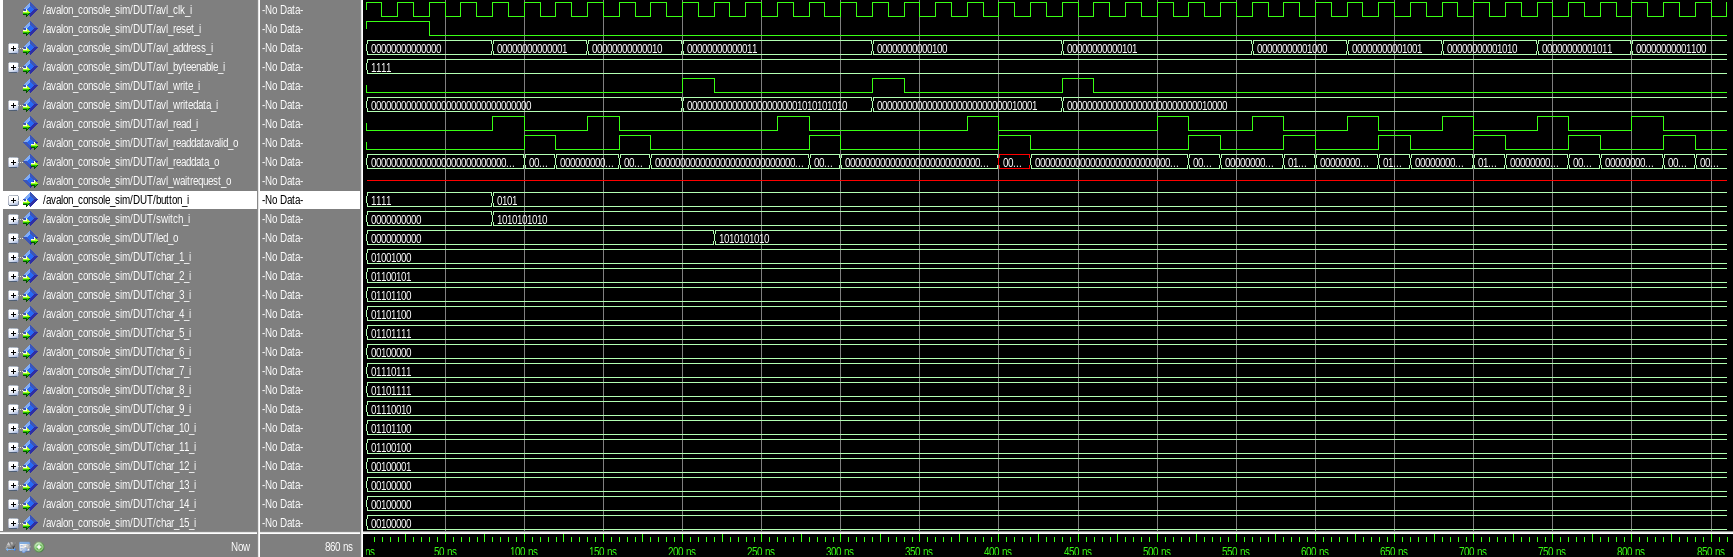
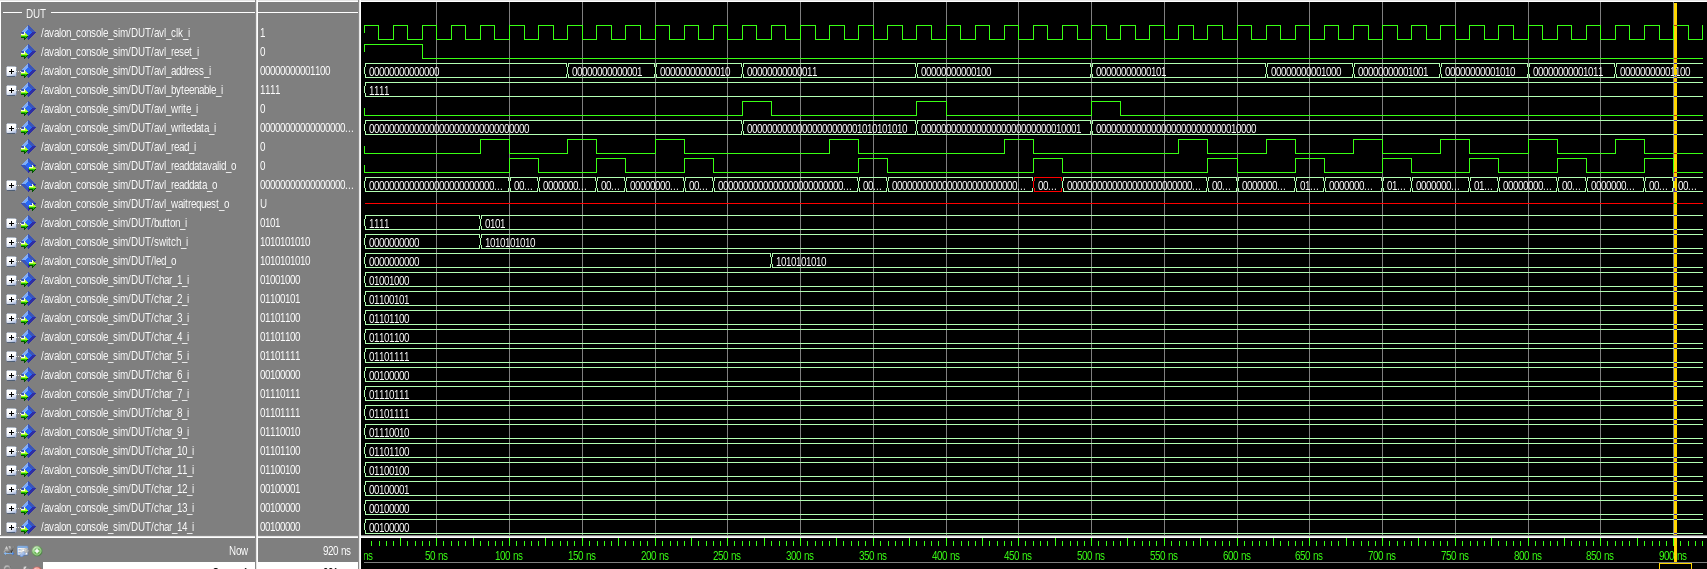
Redone test sim and done doc for it

diff --git a/rapport.md b/rapport.md
@@ -1,0 +1,63 @@
+<div align="justify" style="margin-right:25px;margin-left:25px">
+
+# Laboratoire 05 - Conception d’une interface fiable <!-- omit from toc -->
+
+## Etudiants
+
+- Pedro Alves da Silva
+- Urs Behrmann
+
+# Table des matières
+
+- [Table des matières](#table-des-matières)
+- [Introduction](#introduction)
+- [Analyse](#analyse)
+  - [Plan d’adressage](#plan-dadressage)
+  - [schéma  bloc  de  l’interface](#schéma--bloc--de--linterface)
+- [Tests](#tests)
+  - [Partie 1](#partie-1)
+
+# Introduction
+
+# Analyse
+
+## Plan d’adressage
+
+
+
+## schéma  bloc  de  l’interface
+
+
+# Tests
+
+## Partie 1
+
+Pour la partie 1, nous avons effectué en premier des tests avec le test bench fourni. Nous avons créé une série de commande que le CPU peut envoyer à l'interface. Nous avons testé toutes les lectures et écritures décrites dans la description du laboratoire.
+
+| Commande       | Description                                    |
+| -------------- | ---------------------------------------------- |
+| `Read 0`       | Lecture de l'interface user ID                 |
+| `Read 4`       | Lecture des 4 buttons                          |
+| `Read 8`       | Lecture des 10 switches                        |
+| `Write 12 682` | Ecriture de 682 sur les 10 LEDs (0b1010101010) |
+| `Read 12`      | Lecture des 10 LEDs                            |
+| `Write 16 17`  | Ecriture dans new_char [4] et init_char [0]    |
+| `Read 16`      | Lecture du status                              |
+| `Write 20 16`  | Ecriture dans mode_gen [4]  et delay_gen [1-0] |
+| `Read 20`      | Lecture des char 1 à 4                         |
+| `Read 32`      | Lecture des char 5 à 8                         |
+| `Read 36`      | Lecture des char 9 à 12                        |
+| `Read 40`      | Lecture des char 13 à 16                       |
+| `Read 44`      | Lecture du checksum [7-0]                      |
+
+Ici, un screenshot de l'interface de simulation:l
+
+![Simulation](/imgs/p1_test1_0.png)
+
+Et les chronogrammes:
+
+![Chronogramme 1](/imgs/p1_test1_1.png)
+
+![Chronogramme 2](/imgs/p1_test1_2.png)
+
+![Chronogramme 3](/imgs/p1_test1_3.png)
